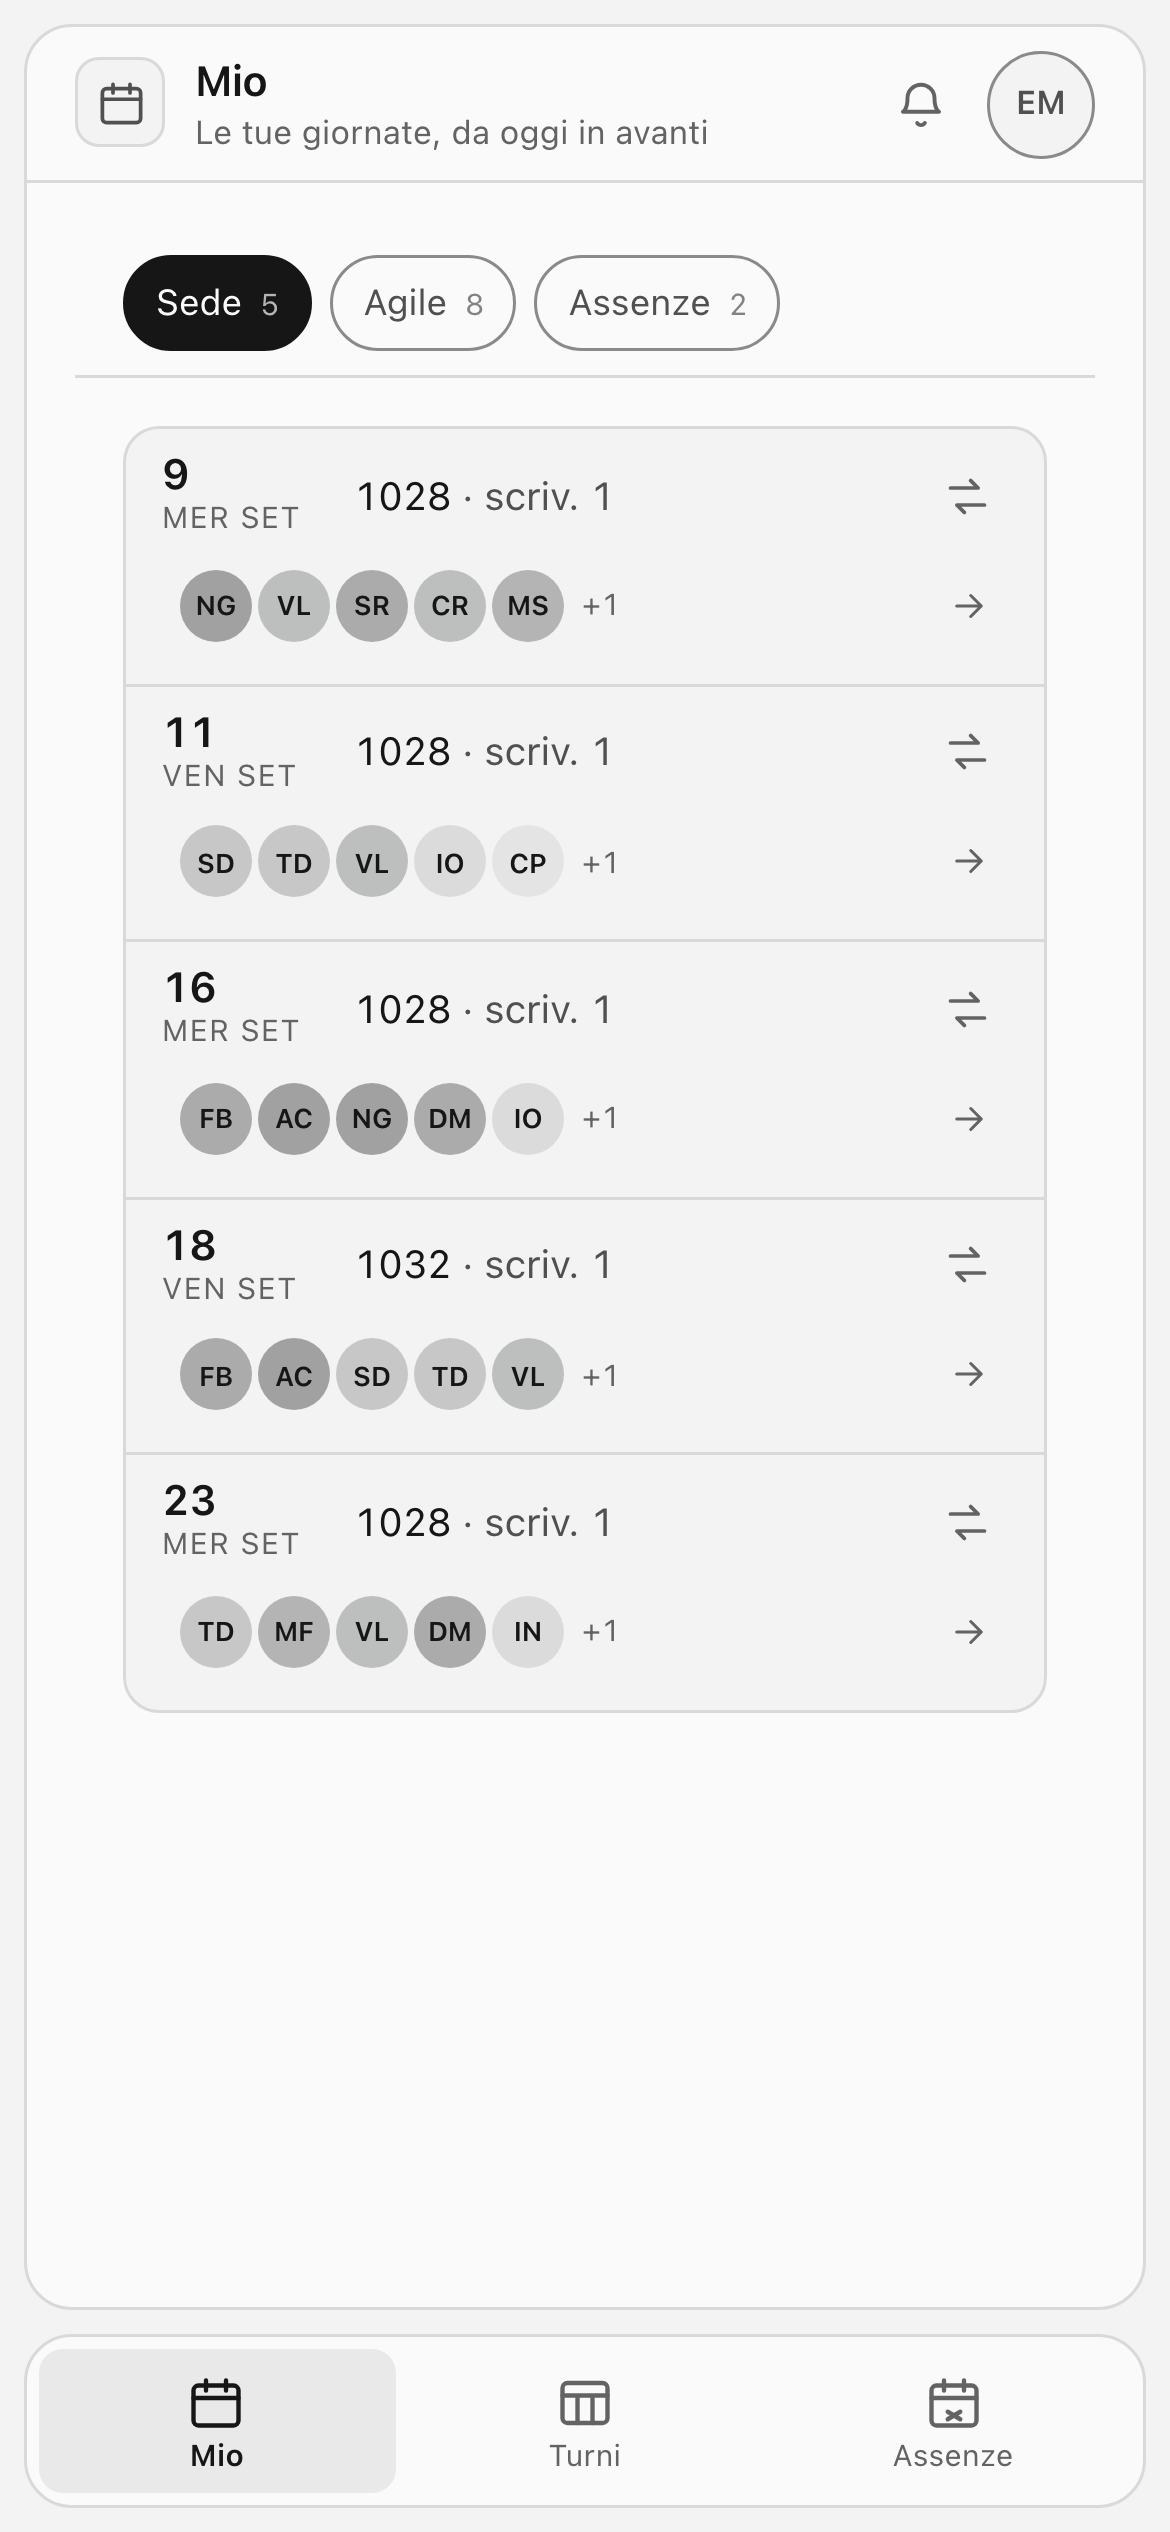
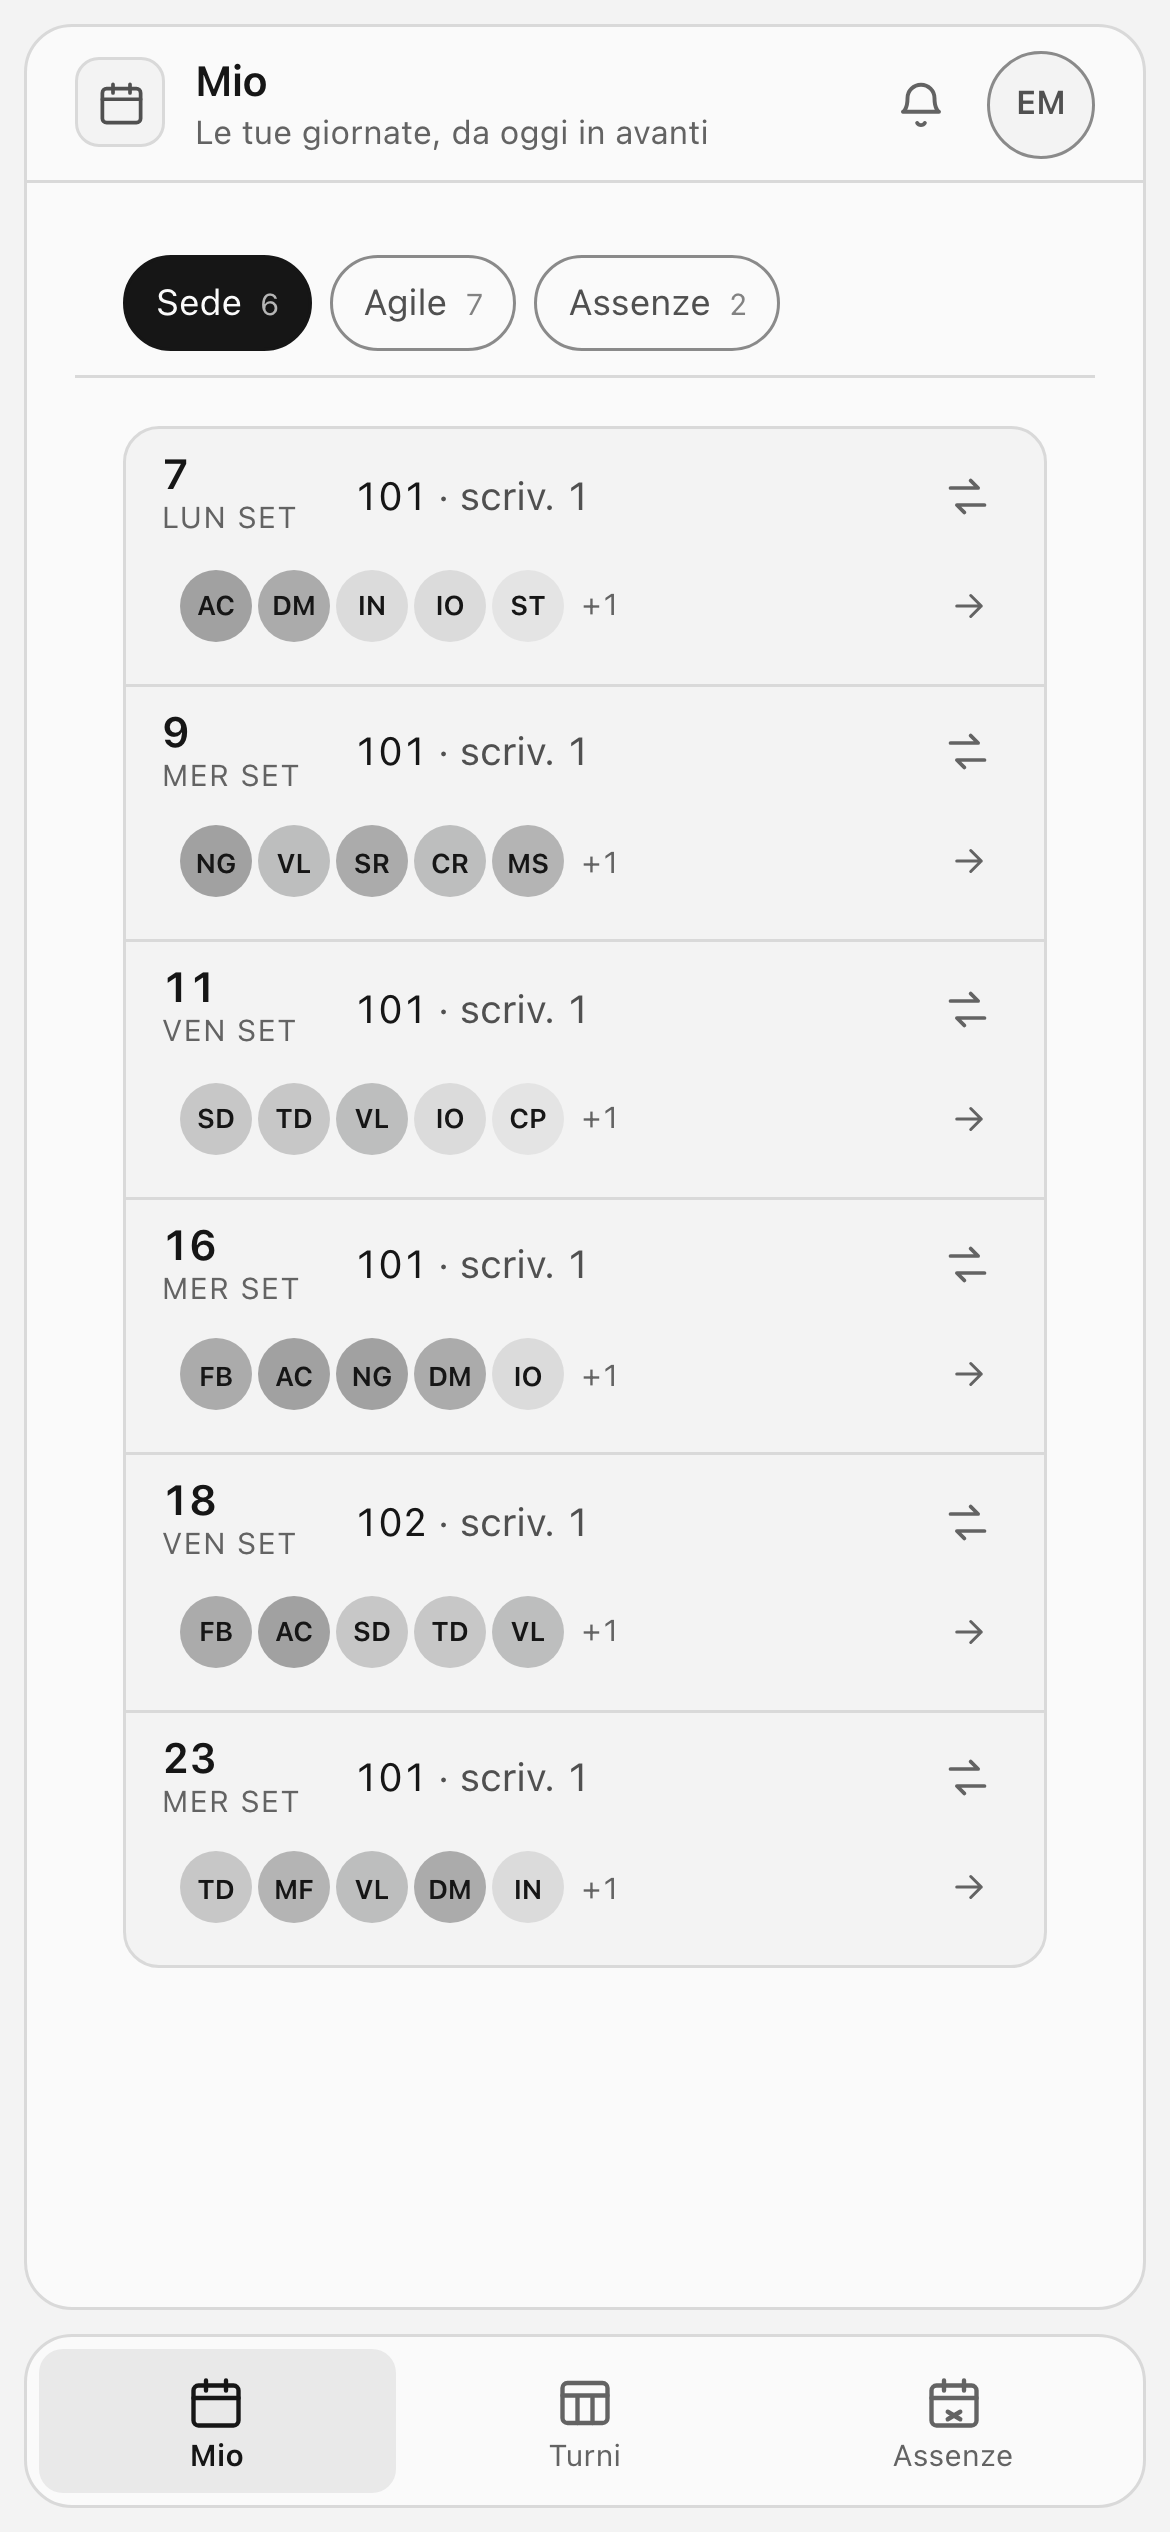
chore: licenza MIT, e via anche i dati dell'organizzazione reale
I nomi delle persone non erano l'unico dato reale nel fixture di prova:
c'erano anche i nomi e le sigle delle due unità organizzative e le
etichette vere delle stanze. Sostituiti con equivalenti generici.

Due settori si chiamavano «Contabilità» e «Formazione». Il secondo era
anche confuso: un settore che si chiama come uno stato della giornata
rende ambigua ogni frase dell'interfaccia. Ora sono «Contabilità» e
«Formazione».

Licenza MIT: qui dentro non c'è niente di inventato, e un vincolo di
riuso servirebbe solo a rendere più difficile il riuso.

diff --git a/README.md b/README.md
@@ -190,8 +190,7 @@ Prima versione completa e provata. Rinviato per scelta, non per dimenticanza:
 
 ## Licenza
 
-Da definire. Trattandosi di software per una pubblica amministrazione italiana,
-le [Linee guida su acquisizione e riuso di software per le
-PA](https://docs.italia.it/italia/developers-italia/gl-acquisition-and-reuse-software-for-pa-docs/)
-indicano una licenza aperta — di norma AGPL-3.0 o EUPL-1.2. Finché il file
-`LICENSE` non c'è, valgono i termini predefiniti del diritto d'autore.
+[MIT](LICENSE). Prendi, usa, modifica, rivendi, senza chiedere niente a
+nessuno. Qui dentro non c'è niente di inventato: un motore che riempie una
+griglia rispettando dei vincoli, un modello dei permessi e un po' di cura nel
+non far uscire i dati di nessuno. Se serve a qualcun altro, tanto meglio.
